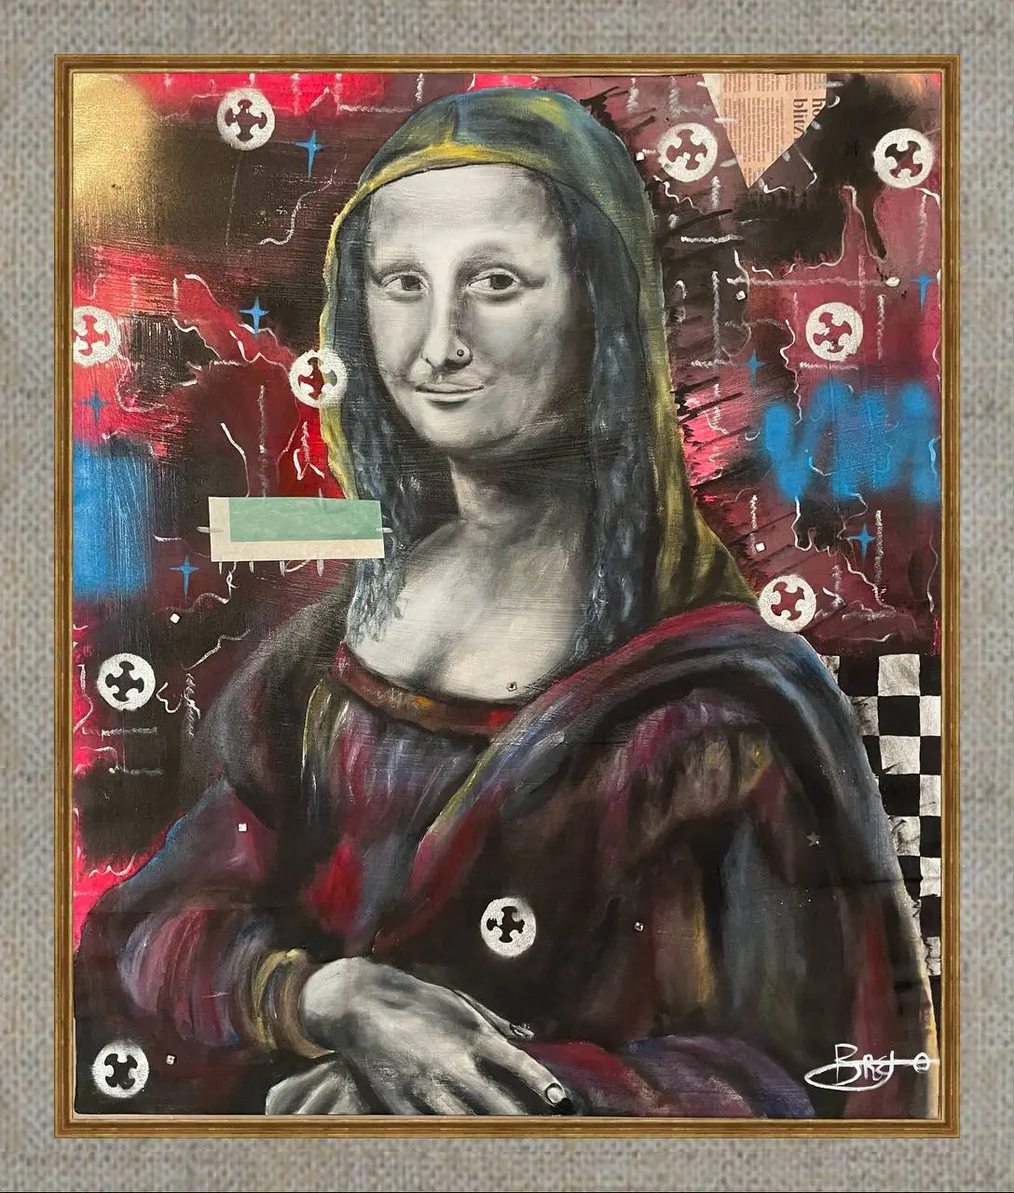
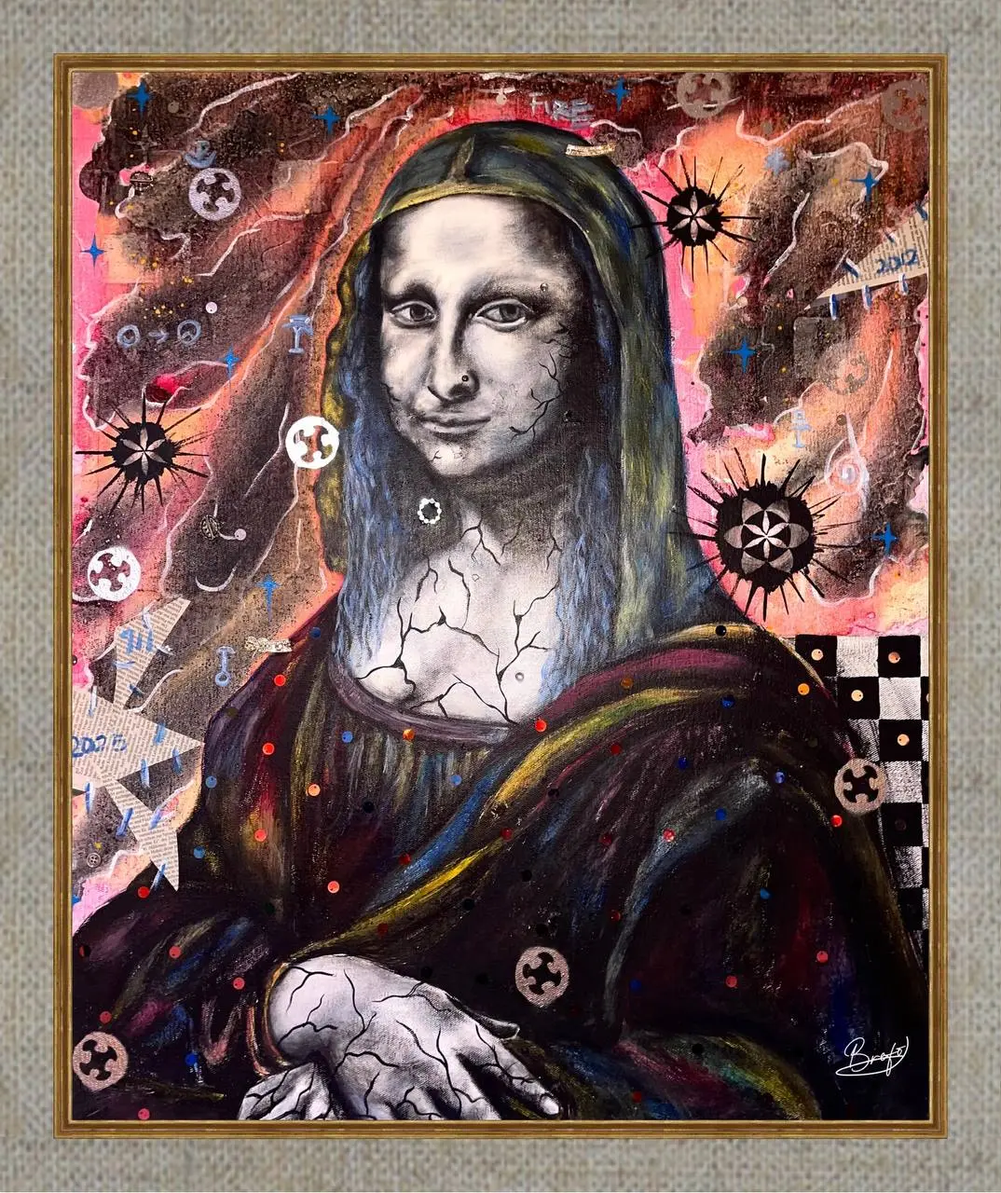
Gallery images updated

diff --git a/src/data/gallery.js b/src/data/gallery.js
@@ -82,17 +82,49 @@ import theEyesThatReallySees from "../assets/images/the-eyes-that-really-sees.we
 import theEyesThatReallySeesFramed from "../assets/images/the-eyes-that-really-sees-framed.webp";
 import monaLisaInBlackAndWhite from "../assets/images/mona-lisa-in-black-and-white.webp";
 import monaLisaInBlackAndWhiteFramed from "../assets/images/mona-lisa-in-black-and-white-framed.webp";
+import revelationLastSurvivingArtist from "../assets/images/the-revelation-of-the-last-surviving-artist.webp";
+import revelationLastSurvivingArtistFramed from "../assets/images/the-revelation-of-the-last-surviving-artist-framed.webp";
+import theRatRace from "../assets/images/the-rat-race.webp";
+import theRatRaceFramed from "../assets/images/the-rat-race-framed.webp";
+import defeatOfTheRose from "../assets/images/defeat-of-the-rose.webp";
+import defeatOfTheRoseFramed from "../assets/images/defeat-of-the-rose-framed.webp";
+import whatDidIDoWrong from "../assets/images/what-did-i-do-wrong.webp";
+import whatDidIDoWrongFramed from "../assets/images/what-did-i-do-wrong-framed.webp";
+import whereBeautyLies from "../assets/images/where-beauty-lies.webp";
+import whereBeautyLiesFramed from "../assets/images/where-beauty-lies-framed.webp";
 
 export const gallery = [
   {
-    title: "MR. SMART GUY",
-    image: mrSmartGuy,
-    framedImage: mrSmartGuyFramed,
-    slug: "mr-smart-guy",
-    materials: "Mixed media on Canvas",
-    size: "32 x 27 inches",
-    description: "Smarting is the key. It helps fight louder than missiles and ammunition. Smartness is knowledge and art. It helps create beauty and also complexities. Knowledge roots all. It’s the best thing to happen. Knowledge protects. He who seeks knowledge seeks life’s beauty and simplicity.",
+    title: "THE REVELATION OF THE LAST SURVIVING ARTIST",
+    image: revelationLastSurvivingArtist,
+    framedImage: revelationLastSurvivingArtistFramed,
+    slug: "the-revelation-of-the-last-surviving-artist",
+    materials: "Acrylic on canvas, newsprint, fabric, spray paint, textiles buttons, pennies, artificial gemstones",
+    size: "57 x 57 inches",
+    description: "Life has been unfair, yet it has also blessed me with a divine gift that defines how the world knows me. It is a demanding gift, one that pushes me to constantly rise to its standard, and I embrace the challenge it brings. Right now, however, I feel drained of energy and power, with time moving faster than I can keep up. The people with the capacity to help surround me and see the great work I am doing, but they often ignore greatness until it is too late. Even with prayers offered to be seen and heard, help still feels distant, and in a world where love is scarce, those meant to bring good through hardship are left to struggle. Still, greatness remains inevitable; I will simply continue being myself and trust that life will unfold as it is destined to.",
     year: 2026,
+    type: "square" // or "portrait" or "square"
+  },
+  {
+    title: "THE EYES THAT REALLY SEES",
+    image: theEyesThatReallySees,
+    framedImage: theEyesThatReallySeesFramed,
+    slug: "the-eyes-that-really-sees",
+    materials: "Mixed media on Canvas",
+    size: "24 x 24 inches",
+    description: "Beyond the surface, beyond the glance, Lies a world unseen, a deeper dance. Don’t just look, peer into the heart, For reality whispers secrets, if we take a part. The eyes may see, but the soul must gaze, To unravel truths in hidden ways. Look deeper, and the layers unfold, Revealing stories, young and old. In the silence, listen with intent, For the whispers of truth, the universe’s bent. Don’t be fooled by what appears, Look deeper, and the essence clears.",
+    year: 2026,
+    type: "square" // or "portrait" or "square"
+  },
+  {
+    title: "WHAT DID I DO WRONG?",
+    image: whatDidIDoWrong,
+    framedImage: whatDidIDoWrongFramed,
+    slug: "what-did-i-do-wrong",
+    materials: "Acrylic on canvas, newsprint, straw board, spray paint, textiles buttons, artificial gemstones, casted metal",
+    size: "36 x 34 inches",
+    description: "I gave my last oxygen to everyone seeking life, extending it to all. Joy filled the air, and I was crowned a king of kindness and generosity. I gave everything until I lost all, then lost myself to stress and fear. No one I helped supported me, making me feel less and showing how heartless people can be. Overthrown for a newer source, I stay hidden; when restored, I'll choose wisely who gets my oxygen",
+    year: 2025,
     type: "square" // or "portrait" or "square"
   },
   {
@@ -103,6 +135,17 @@ export const gallery = [
     materials: "Mixed media on Canvas",
     size: "24 x 24 inches",
     description: "I have meticulously figured all out. Seen through all that transpire, certainly, I know emphatically that the dream, money and life we all desire will eventually manifest and life will be nice. Hence, I'm in a serious relationship with time. I know when I treat her with patience, passion, value and appreciate her timely performances, all will make sense at the end. I have been through the other side, we know the brighter side, there's light at the end of the darker side.",
+    year: 2026,
+    type: "square" // or "portrait" or "square"
+  },
+  {
+    title: "MR. SMART GUY",
+    image: mrSmartGuy,
+    framedImage: mrSmartGuyFramed,
+    slug: "mr-smart-guy",
+    materials: "Mixed media on Canvas",
+    size: "32 x 27 inches",
+    description: "Smarting is the key. It helps fight louder than missiles and ammunition. Smartness is knowledge and art. It helps create beauty and also complexities. Knowledge roots all. It’s the best thing to happen. Knowledge protects. He who seeks knowledge seeks life’s beauty and simplicity.",
     year: 2026,
     type: "square" // or "portrait" or "square"
   },
@@ -118,26 +161,59 @@ export const gallery = [
     type: "square" // or "portrait" or "square"
   },
   {
-    title: "THE EYES THAT REALLY SEES",
-    image: theEyesThatReallySees,
-    framedImage: theEyesThatReallySeesFramed,
-    slug: "the-eyes-that-really-sees",
-    materials: "Mixed media on Canvas",
-    size: "24 x 24 inches",
-    description: "Beyond the surface, beyond the glance, Lies a world unseen, a deeper dance. Don’t just look, peer into the heart, For reality whispers secrets, if we take a part. The eyes may see, but the soul must gaze, To unravel truths in hidden ways. Look deeper, and the layers unfold, Revealing stories, young and old. In the silence, listen with intent, For the whispers of truth, the universe’s bent. Don’t be fooled by what appears, Look deeper, and the essence clears.",
+    title: "WHERE BEAUTY LIES",
+    image: whereBeautyLies,
+    framedImage: whereBeautyLiesFramed,
+    slug: "where-beauty-lies",
+    materials: "Acrylic on canvas, newsprint, fabric, spray paint, textiles buttons, artificial gemstones",
+    size: "32 x 27 inches",
+    description: "Beauty is strength. Beauty command respect. Beauty boost confidence. Beauty is majestic. Beauty is clean. Sweetness is where beauty is built with good health. Beauty lies in the intersection of constant practice and repetitious positivity. Be urged, beauty brings everything that comes to the way of the person responsible. Make sure you are on the safer side of the balance, it is profitable.",
     year: 2026,
-    type: "square" // or "portrait" or "square"
+    type: "portrait" // or "portrait" or "square"
+  },
+  {
+    title: "THE RAT RACE",
+    image: theRatRace,
+    framedImage: theRatRaceFramed,
+    slug: "the-rat-race",
+    materials: "Acrylic on canvas, newsprint, fabric, spray paint, textiles buttons, artificial gemstones, leather",
+    size: "50 x 39 inches",
+    description: "Mama, look at me now, I came home from the university you have always wanted me to be in with a glittering degree. I am the big boy you have always dreamt of becoming. I wear suit and always have my tie on; I have a big job. I am being manipulated and working under scheduled and plotted plans. My manager always praises how submissive I am towards work. I feel heavy weight on my chest, mama. I feel I am enslaved, I am always in an enclosed state of mind, and I cannot even explore with the great light I have in me. Mama, I miss home. The place I always felt like a God, the place where all I did was to use my mind to create and be creative, the place where I do what I love the most and get money from. I am very sad with this big boy job I am doing in this big city. I feel that, upon close examination, it takes most of my time and gives me nothing in return. I am being lured with an amount which would not let me be liberated but rather what will let me survive till the sickle-shaped moon shines again. I will be coming home soon, mama. I know things will be tough if I decide to escape this matrix. I will escape it and live the life of liberation since I do not have much time to live in this space. All I have got now is hope, mama. I hope after this eye opening into the conscious world, things get better for me",
+    year: 2026,
+    type: "portrait" // or "portrait" or "square"
+  },
+  {
+    title: "DEFEAT OF THE ROSE",
+    image: defeatOfTheRose,
+    framedImage: defeatOfTheRoseFramed,
+    slug: "defeat-of-the-rose",
+    materials: "Acrylic on canvas, newsprint, fabric, spray paint, textiles buttons, artificial gemstones",
+    size: "57 x 40 inches",
+    description: "I was once a contented, well-organized and healthy mother surrounded by my family, until I began facing health issues that I battled for a long time without professional help. Weakened by financial instability and a daily decline in energy, I became utterly exhausted before finally finding the courage to seek a proper diagnosis, only to learn that my breast cancer had grown and spread too far. Doctors told me it was too late for therapy unless my breast was removed. My condition left my family scared and anxious, and instead of support, I faced stigmatization from my relatives and even my children, who were sickened by the thought that death was near me. Prayers no longer helped, and I passed away. I am Rose Amasah, and this is how I was defeated. Please, seek early treatment, get routine examinations, and let stigmatization end.",
+    year: 2026,
+    type: "portrait" // or "portrait" or "square"
+  },
+  {
+    title: "DESTINY CHILD",
+    image: destinyChild,
+    framedImage: destinyChildFramed,
+    slug: "destiny-child",
+    materials: "Mixed media on canvas",
+    size: "53 x 40 inches",
+    description: "In the tapestry of my journey, threads of repetition weave a story of unyielding resolve. Like the steady beat of a drum, resilience echoes through every step, turning setbacks into stepping stones. Dedication fuels the fire that burns within, a flame that flickers but never fades, even in the darkest nights. And commitment? It is the compass that guides me through uncharted waters, reminding me that the destination is worth the struggle. The world may measure success by speed, by milestones reached and heights scaled, but my path is unique, calibrated to the rhythm of my soul. I may walk slower than others, but my strides are purposeful, deliberate, and sure. The universe doesn't clock my progress with the same timer as others, its timeline is vast, patient, and intricately woven. Every breath, every fall, and every rise shape me into who I’m meant to be. The architect of your dreams sees beyond the now, crafting a masterpiece of perseverance and grit. I might be late, but the first seat has already been reserved for me.",
+    year: 2026,
+    type: "portrait" // or "portrait" or "square"
   },
   {
     title: "MONA LISA IN BLACK AND WHITE",
     image: monaLisaInBlackAndWhite,
     framedImage: monaLisaInBlackAndWhiteFramed,
     slug: "mona-lisa-in-black-and-white",
-    materials: "Mixed media on Canvas",
+    materials: "Acrylic on canvas, newsprint, spray paint, textiles buttons, artificial gemstones",
     size: "32 x 27 inches",
-    description: "In a daring twist, the iconic Mona Lisa traded her Renaissance hues for a sleek black and white palette, her enigmatic smile now a striking contrast of shadows and highlights. The subtle gradient of grey tones accentuated her mystique, like a whispered secret in the Louvre's hallowed halls. Leonardo's masterstroke was reimagined, her gaze both haunting and hypnotic, as if she'd just revealed a secret. The monochrome masterpiece left viewers spellbound, questioning what secrets lay hidden beneath the surface.",
+    description: "I was known as the rich woman who could do anything, living so well that elite jealousy became unbearable. In 2012, the day after a big shipment arrived, they burned all my riches when I was most vulnerable. Hard times showed me my true loved ones were only a tenth of those I loved daily; God heard my kids' prayers and I became wealthy again, though not like before. In 2025, a bigger demonic fire took everything again, and now I live day by day, coping with brokenness. My scars are visible as the sun, but I pray hope finds me again because I am destined for greatness",
     year: 2026,
-    type: "square" // or "portrait" or "square"
+    type: "portrait" // or "portrait" or "square"
   },
   {
     title: "HARMONY IN CHAOS",
@@ -148,7 +224,7 @@ export const gallery = [
     size: "32 x 27 inches",
     description: "As I stood at the crossroads of my life, torn between the expectations of others and my own dreams, I realized that every moment spent pleasing others was a moment lost to my true self. With each brushstroke on this canvas, I began to untangle the noise, letting creativity guide me toward clarity. The world outside wouldn’t quiet, but my inner voice grew louder, reminding me that fulfillment isn’t found in endless checkboxes, rather, it’s crafted in the spaces between. The key is not to prioritize what’s on your schedule, but to schedule your priorities. This thought has made me known life and has made me seen through many loopholes.",
     year: 2026,
-    type: "square" // or "portrait" or "square"
+    type: "portrait" // or "portrait" or "square"
   },
   {
     title: "DISBELIEVA",
@@ -173,14 +249,14 @@ export const gallery = [
     type: "portrait" // or "portrait" or "square"
   },
   {
-    title: "DESTINY CHILD",
-    image: destinyChild,
-    framedImage: destinyChildFramed,
-    slug: "destiny-child",
+    title: "THE PRAYER TO THE FIRST ARCHANGEL",
+    image: prayerArchangel,
+    framedImage: prayerArchangelFramed,
+    slug: "the-prayer-to-the-first-archangel",
     materials: "Mixed media on canvas",
-    size: "53 x 40 inches",
-    description: "In the tapestry of my journey, threads of repetition weave a story of unyielding resolve. Like the steady beat of a drum, resilience echoes through every step, turning setbacks into stepping stones. Dedication fuels the fire that burns within, a flame that flickers but never fades, even in the darkest nights. And commitment? It is the compass that guides me through uncharted waters, reminding me that the destination is worth the struggle. The world may measure success by speed, by milestones reached and heights scaled, but my path is unique, calibrated to the rhythm of my soul. I may walk slower than others, but my strides are purposeful, deliberate, and sure. The universe doesn't clock my progress with the same timer as others, its timeline is vast, patient, and intricately woven. Every breath, every fall, and every rise shape me into who I’m meant to be. The architect of your dreams sees beyond the now, crafting a masterpiece of perseverance and grit. I might be late, but the first seat has already been reserved for me.",
-    year: 2026,
+    size: "53 x 39 inches",
+    description: "I have been aware of and have taken steps to improve my life through personal development, rebirth, and change. Stopped all of the bad habits and swiftly shifted to the good ones. I am aware of both good and awful things, and I realise that awful things can also have wonderful things in them and vise versa. My self-awareness, intelligence, and thoughtful process have all increased. Both the male and feminine energies are known to me; I have distinguished between them and selected the most lucrative ones. Knowing the Almighty Being, I am aware that he is the only Being wealthy for worship. Thus, why does life continue to unfold in this manner? It should have been fair to live.",
+    year: 2023,
     type: "portrait" // or "portrait" or "square"
   },
   {
@@ -217,17 +293,6 @@ export const gallery = [
     type: "portrait" // or "portrait" or "square"
   },
   {
-    title: "THE PRAYER TO THE FIRST ARCHANGEL",
-    image: prayerArchangel,
-    framedImage: prayerArchangelFramed,
-    slug: "the-prayer-to-the-first-archangel",
-    materials: "Mixed media on canvas",
-    size: "53 x 39 inches",
-    description: "I have been aware of and have taken steps to improve my life through personal development, rebirth, and change. Stopped all of the bad habits and swiftly shifted to the good ones. I am aware of both good and awful things, and I realise that awful things can also have wonderful things in them and vise versa. My self-awareness, intelligence, and thoughtful process have all increased. Both the male and feminine energies are known to me; I have distinguished between them and selected the most lucrative ones. Knowing the Almighty Being, I am aware that he is the only Being wealthy for worship. Thus, why does life continue to unfold in this manner? It should have been fair to live.",
-    year: 2023,
-    type: "portrait" // or "portrait" or "square"
-  },
-  {
     title: "THE HEART THAT GAVE UNTIL SUNSET",
     image: heartThatGave,
     framedImage: heartThatGaveFramed,
@@ -257,6 +322,17 @@ export const gallery = [
     materials: "Mixed media on canvas",
     size: "53 x 40 inches",
     description: "Wanted to know all and specifics, dig and dig, searched and researched, and sacrificed all what I had for knowledge. I’m consciously and subconsciously enlightened and awaken. Knowledge has brought me to nothing but hope. Think we shouldn’t seek much, we might not be ready for the inevitable regrets that come with it.",
+    year: 2025,
+    type: "portrait" // or "portrait" or "square"
+  },
+  {
+    title: "WHY TOGETHER",
+    image: whyTogether,
+    framedImage: whyTogetherFramed,
+    slug: "why-together",
+    materials: "Mixed media on canvas",
+    size: "53 x 40 inches",
+    description: "Love can often appear radiant and flawless on the surface, a beautiful facade that captivates and inspires. However, beneath this gleaming exterior, love can be a complex and messy entity, fraught with challenges, heartaches, and uncertainties. The reality of love can be a delicate balance of compromise, sacrifice, and vulnerability, where emotions ebb and flow like the tides. Despite its beauty, love can also be a breeding ground for conflicts, misunderstandings, and pain, testing the bonds between individuals and pushing them to their limits. Ultimately, love's true nature is often revealed in the imperfections, the struggles, and the quiet moments of introspection, where its beauty and ugliness coexist in a delicate dance.",
     year: 2025,
     type: "portrait" // or "portrait" or "square"
   },
@@ -448,17 +524,6 @@ export const gallery = [
     type: "portrait" // or "portrait" or "square"
   },
   {
-    title: "WHY TOGETHER",
-    image: whyTogether,
-    framedImage: whyTogetherFramed,
-    slug: "why-together",
-    materials: "Mixed media on canvas",
-    size: "53 x 40 inches",
-    description: "Love can often appear radiant and flawless on the surface, a beautiful facade that captivates and inspires. However, beneath this gleaming exterior, love can be a complex and messy entity, fraught with challenges, heartaches, and uncertainties. The reality of love can be a delicate balance of compromise, sacrifice, and vulnerability, where emotions ebb and flow like the tides. Despite its beauty, love can also be a breeding ground for conflicts, misunderstandings, and pain, testing the bonds between individuals and pushing them to their limits. Ultimately, love's true nature is often revealed in the imperfections, the struggles, and the quiet moments of introspection, where its beauty and ugliness coexist in a delicate dance.",
-    year: 2025,
-    type: "portrait" // or "portrait" or "square"
-  },
-  {
     title: "THE BEST WORST THING",
     image: bestWorstThing,
     framedImage: bestWorstThingFramed,
@@ -514,16 +579,16 @@ export const gallery = [
     type: "portrait" // or "portrait" or "square"
   },
   {
-    title: "THE TIME TRAVELER",
-    image: timeTraveler,
-    framedImage: timeTravelerFramed,
-    slug: "the-time-traveler",
-    materials: "Acrylics on canvas",
+    title: "EMBRACING THE DEPTH",
+    image: embracingTheDepth,
+    framedImage: embracingTheDepthFramed,
+    slug: "embracing-the-depth",
+    materials: "Mixed media on Canvas",
     size: "45 x 35 inches",
-    description: `Time travel is the concept of moving between distinct points in time by an object or a person, similar to moving between different points in space by an object or a person, generally via a hypothetical equipment known as a "time machine." Time travel can be defined as the transportation of a person into the future or into the past. The movement of ‘THE TIME TRAVELER' was done into the future.`,
-    description2: "I, ‘THE TIME TRAVELER’ would want to tell what I observed and recorded myself. The future is a wired period where everything will happen if change is not made today. To emphasize, humans; the old, the wise and knowledgeable, wealthy, high esteemed people and any other people will be highly manipulated. The brains of these people will be controlled by those on top of the world governance. These high-ranking government officials will steer man in the other direction. I, ‘THE TIME TRAVELER,' observed numerous humans, many of whom had their bodies altered beyond recognition. Vegetation?… No!!! I saw nothing like vegetation. Because of the current human practice of deforestation, artificial oxygen will be made by THESE scientists who are only concerned with their own personal interests. For the sake of survival, humans will always rely on oxygen. I, 'THE TIME TRAVELER,' witnessed ANUBIS, the god of death, laboring behind closed doors in a ferocious mood to exterminate humanity. The world's demise has already been planned, and everything must take place as planned. The future is a frightening time in which nothing will be good. This is due to the ruin of the planet, the establishment of a new world order, hostility, wickedness, and callous disregard for people, as well as the use of biological weapons to reduce those who are not viewed as superior by THESE people. WE SHOULD PROTECT THE FUTURE NOW!!!",
-    year: 2021,
-    type: "portrait" // or "portrait" or "square"
+    description: "Embracing the depth involves a journey shaped by silence, resilience, and deep emotional understanding. The narrator reflects on their ability to endure while carrying the burdens of others, emphasizing their gentle strength and transformative love. They seek meaning through solitary reflection and aspire to embody kindness and wisdom in their actions. Their life aims to leave a profound impact, marked by compassion and personal growth, rather than loud accolades, ultimately focusing on the deep changes they bring to those they encounter.",
+    year: 2026,
+    type: "portrait", // or "portrait" or "square"
+    status: "Commissioned",
   },
   {
     title: "THE APOCALYPSE",
@@ -537,15 +602,15 @@ export const gallery = [
     type: "square" // or "portrait" or "square"
   },
   {
-    title: "EMBRACING THE DEPTH",
-    image: embracingTheDepth,
-    framedImage: embracingTheDepthFramed,
-    slug: "embracing-the-depth",
-    materials: "Mixed media on Canvas",
+    title: "THE TIME TRAVELER",
+    image: timeTraveler,
+    framedImage: timeTravelerFramed,
+    slug: "the-time-traveler",
+    materials: "Acrylics on canvas",
     size: "45 x 35 inches",
-    description: "Embracing the depth involves a journey shaped by silence, resilience, and deep emotional understanding. The narrator reflects on their ability to endure while carrying the burdens of others, emphasizing their gentle strength and transformative love. They seek meaning through solitary reflection and aspire to embody kindness and wisdom in their actions. Their life aims to leave a profound impact, marked by compassion and personal growth, rather than loud accolades, ultimately focusing on the deep changes they bring to those they encounter.",
-    year: 2026,
-    type: "portrait", // or "portrait" or "square"
-    status: "Commissioned",
+    description: `Time travel is the concept of moving between distinct points in time by an object or a person, similar to moving between different points in space by an object or a person, generally via a hypothetical equipment known as a "time machine." Time travel can be defined as the transportation of a person into the future or into the past. The movement of ‘THE TIME TRAVELER' was done into the future.`,
+    description2: "I, ‘THE TIME TRAVELER’ would want to tell what I observed and recorded myself. The future is a wired period where everything will happen if change is not made today. To emphasize, humans; the old, the wise and knowledgeable, wealthy, high esteemed people and any other people will be highly manipulated. The brains of these people will be controlled by those on top of the world governance. These high-ranking government officials will steer man in the other direction. I, ‘THE TIME TRAVELER,' observed numerous humans, many of whom had their bodies altered beyond recognition. Vegetation?… No!!! I saw nothing like vegetation. Because of the current human practice of deforestation, artificial oxygen will be made by THESE scientists who are only concerned with their own personal interests. For the sake of survival, humans will always rely on oxygen. I, 'THE TIME TRAVELER,' witnessed ANUBIS, the god of death, laboring behind closed doors in a ferocious mood to exterminate humanity. The world's demise has already been planned, and everything must take place as planned. The future is a frightening time in which nothing will be good. This is due to the ruin of the planet, the establishment of a new world order, hostility, wickedness, and callous disregard for people, as well as the use of biological weapons to reduce those who are not viewed as superior by THESE people. WE SHOULD PROTECT THE FUTURE NOW!!!",
+    year: 2021,
+    type: "portrait" // or "portrait" or "square"
   },
 ];
